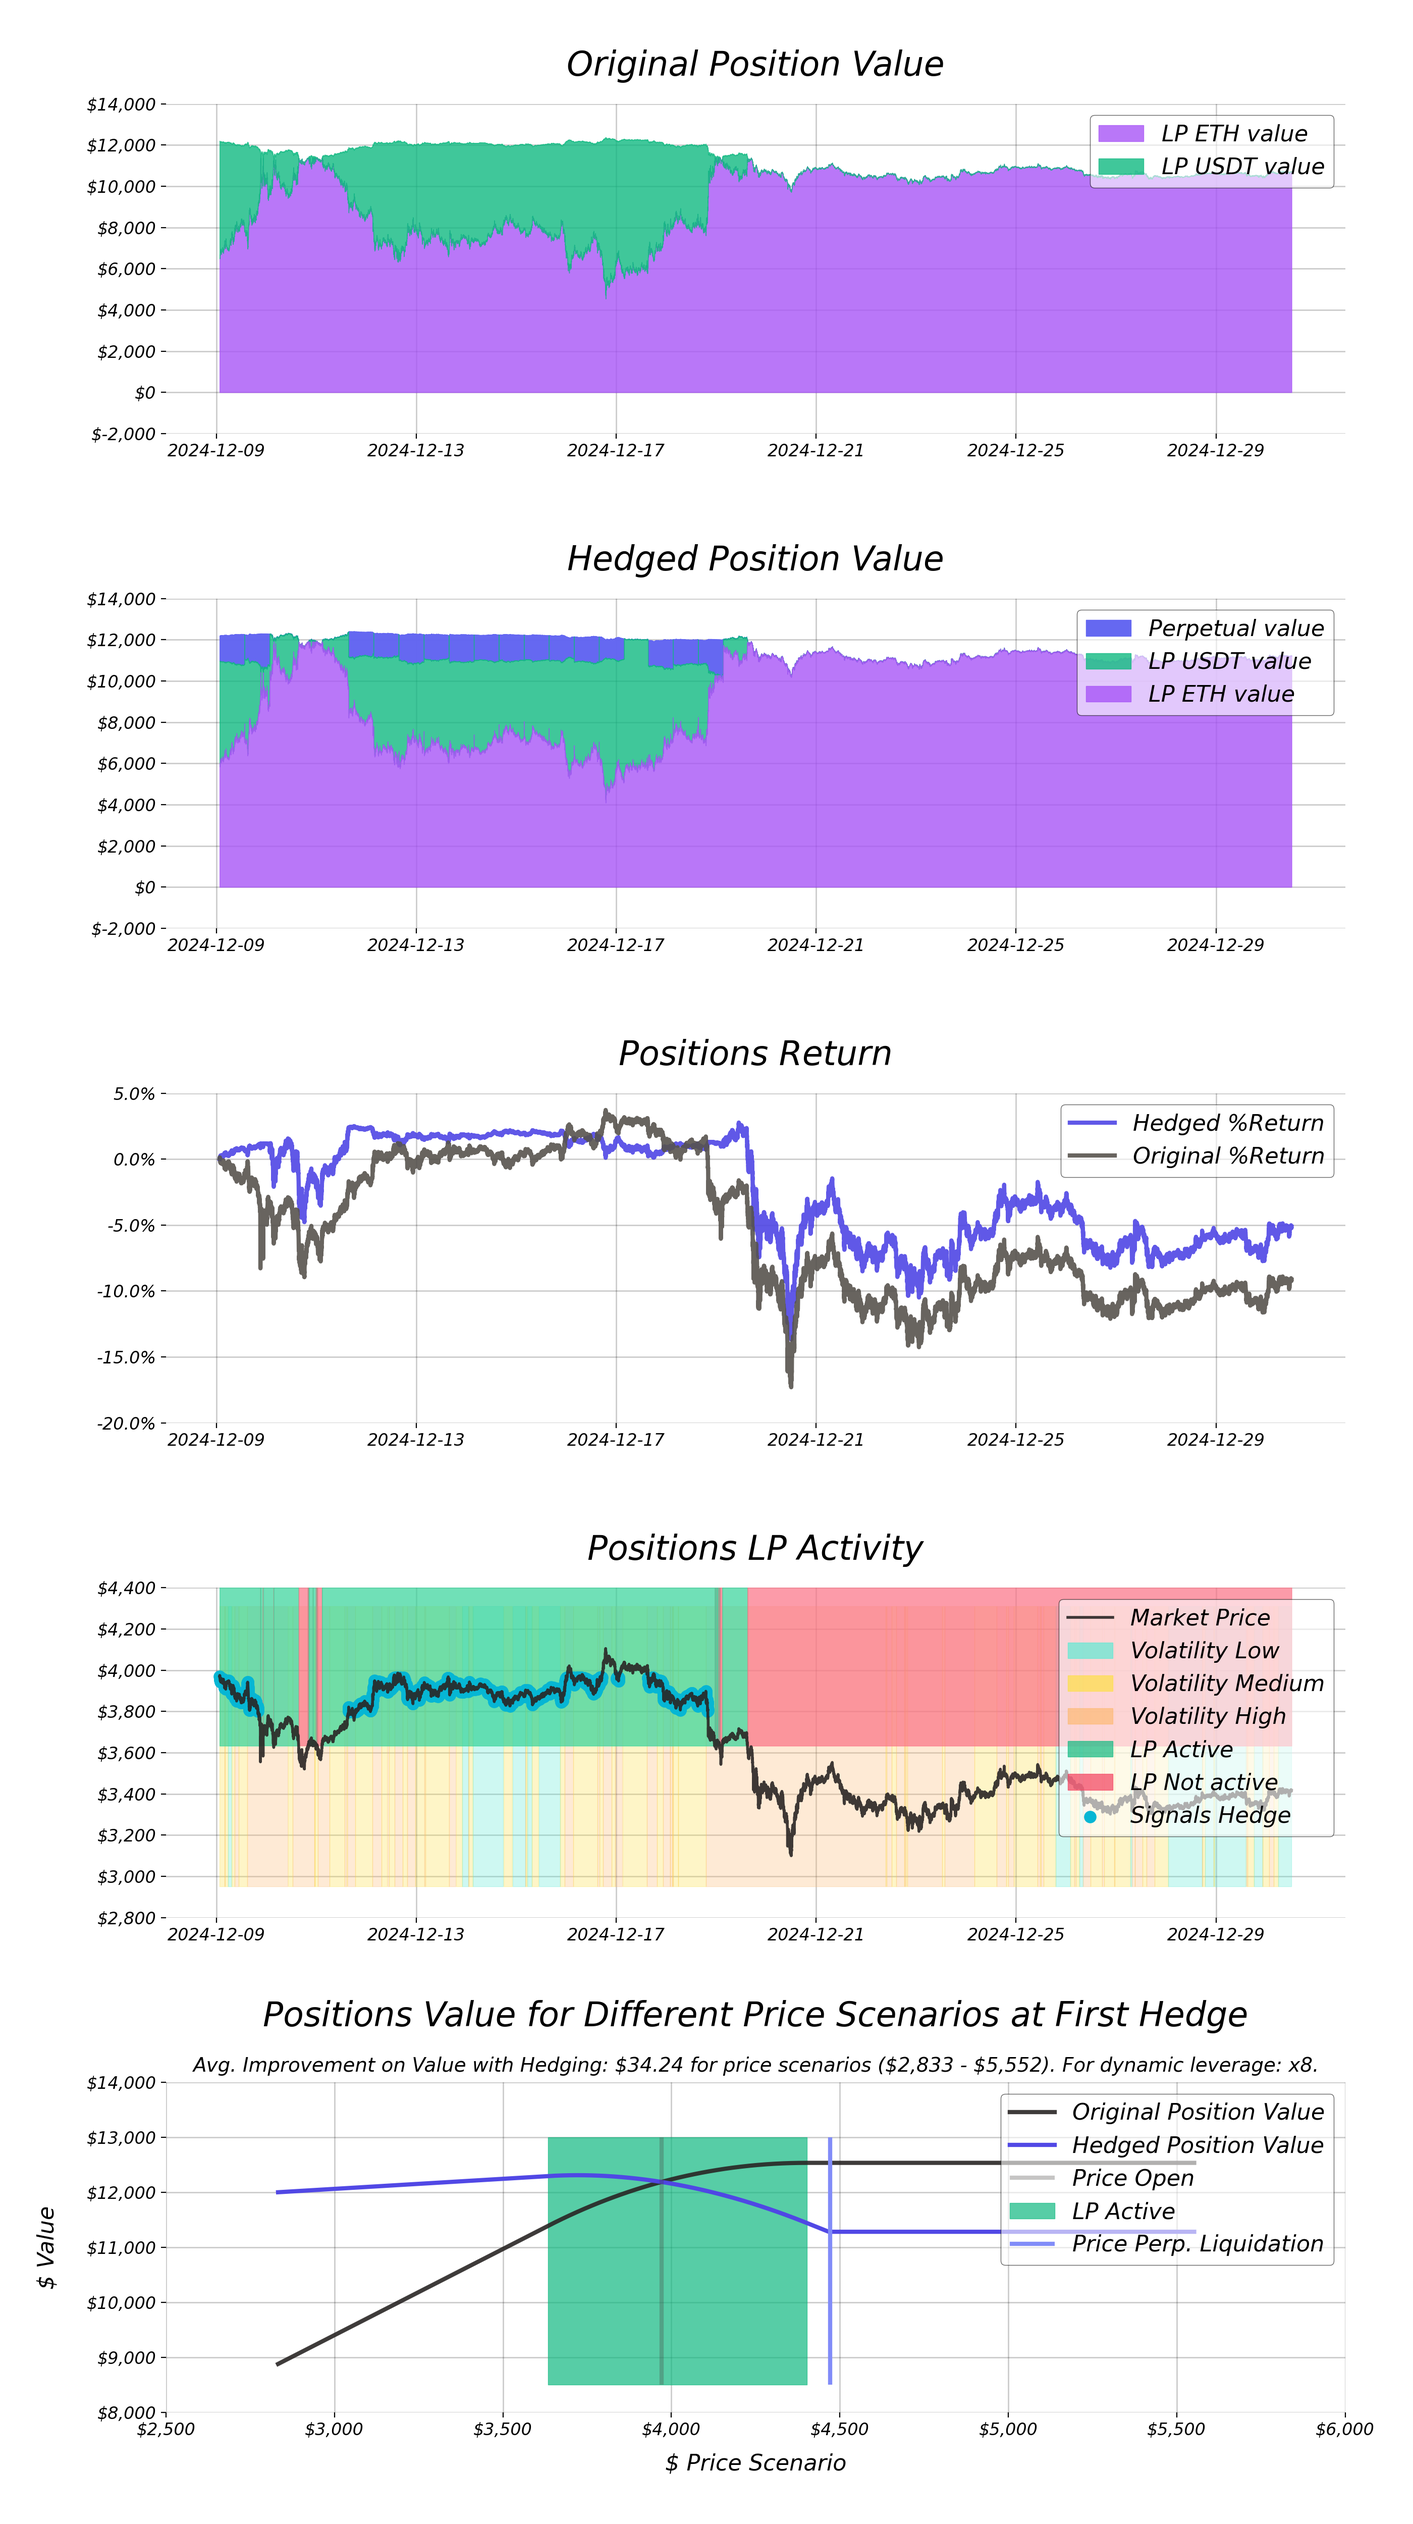
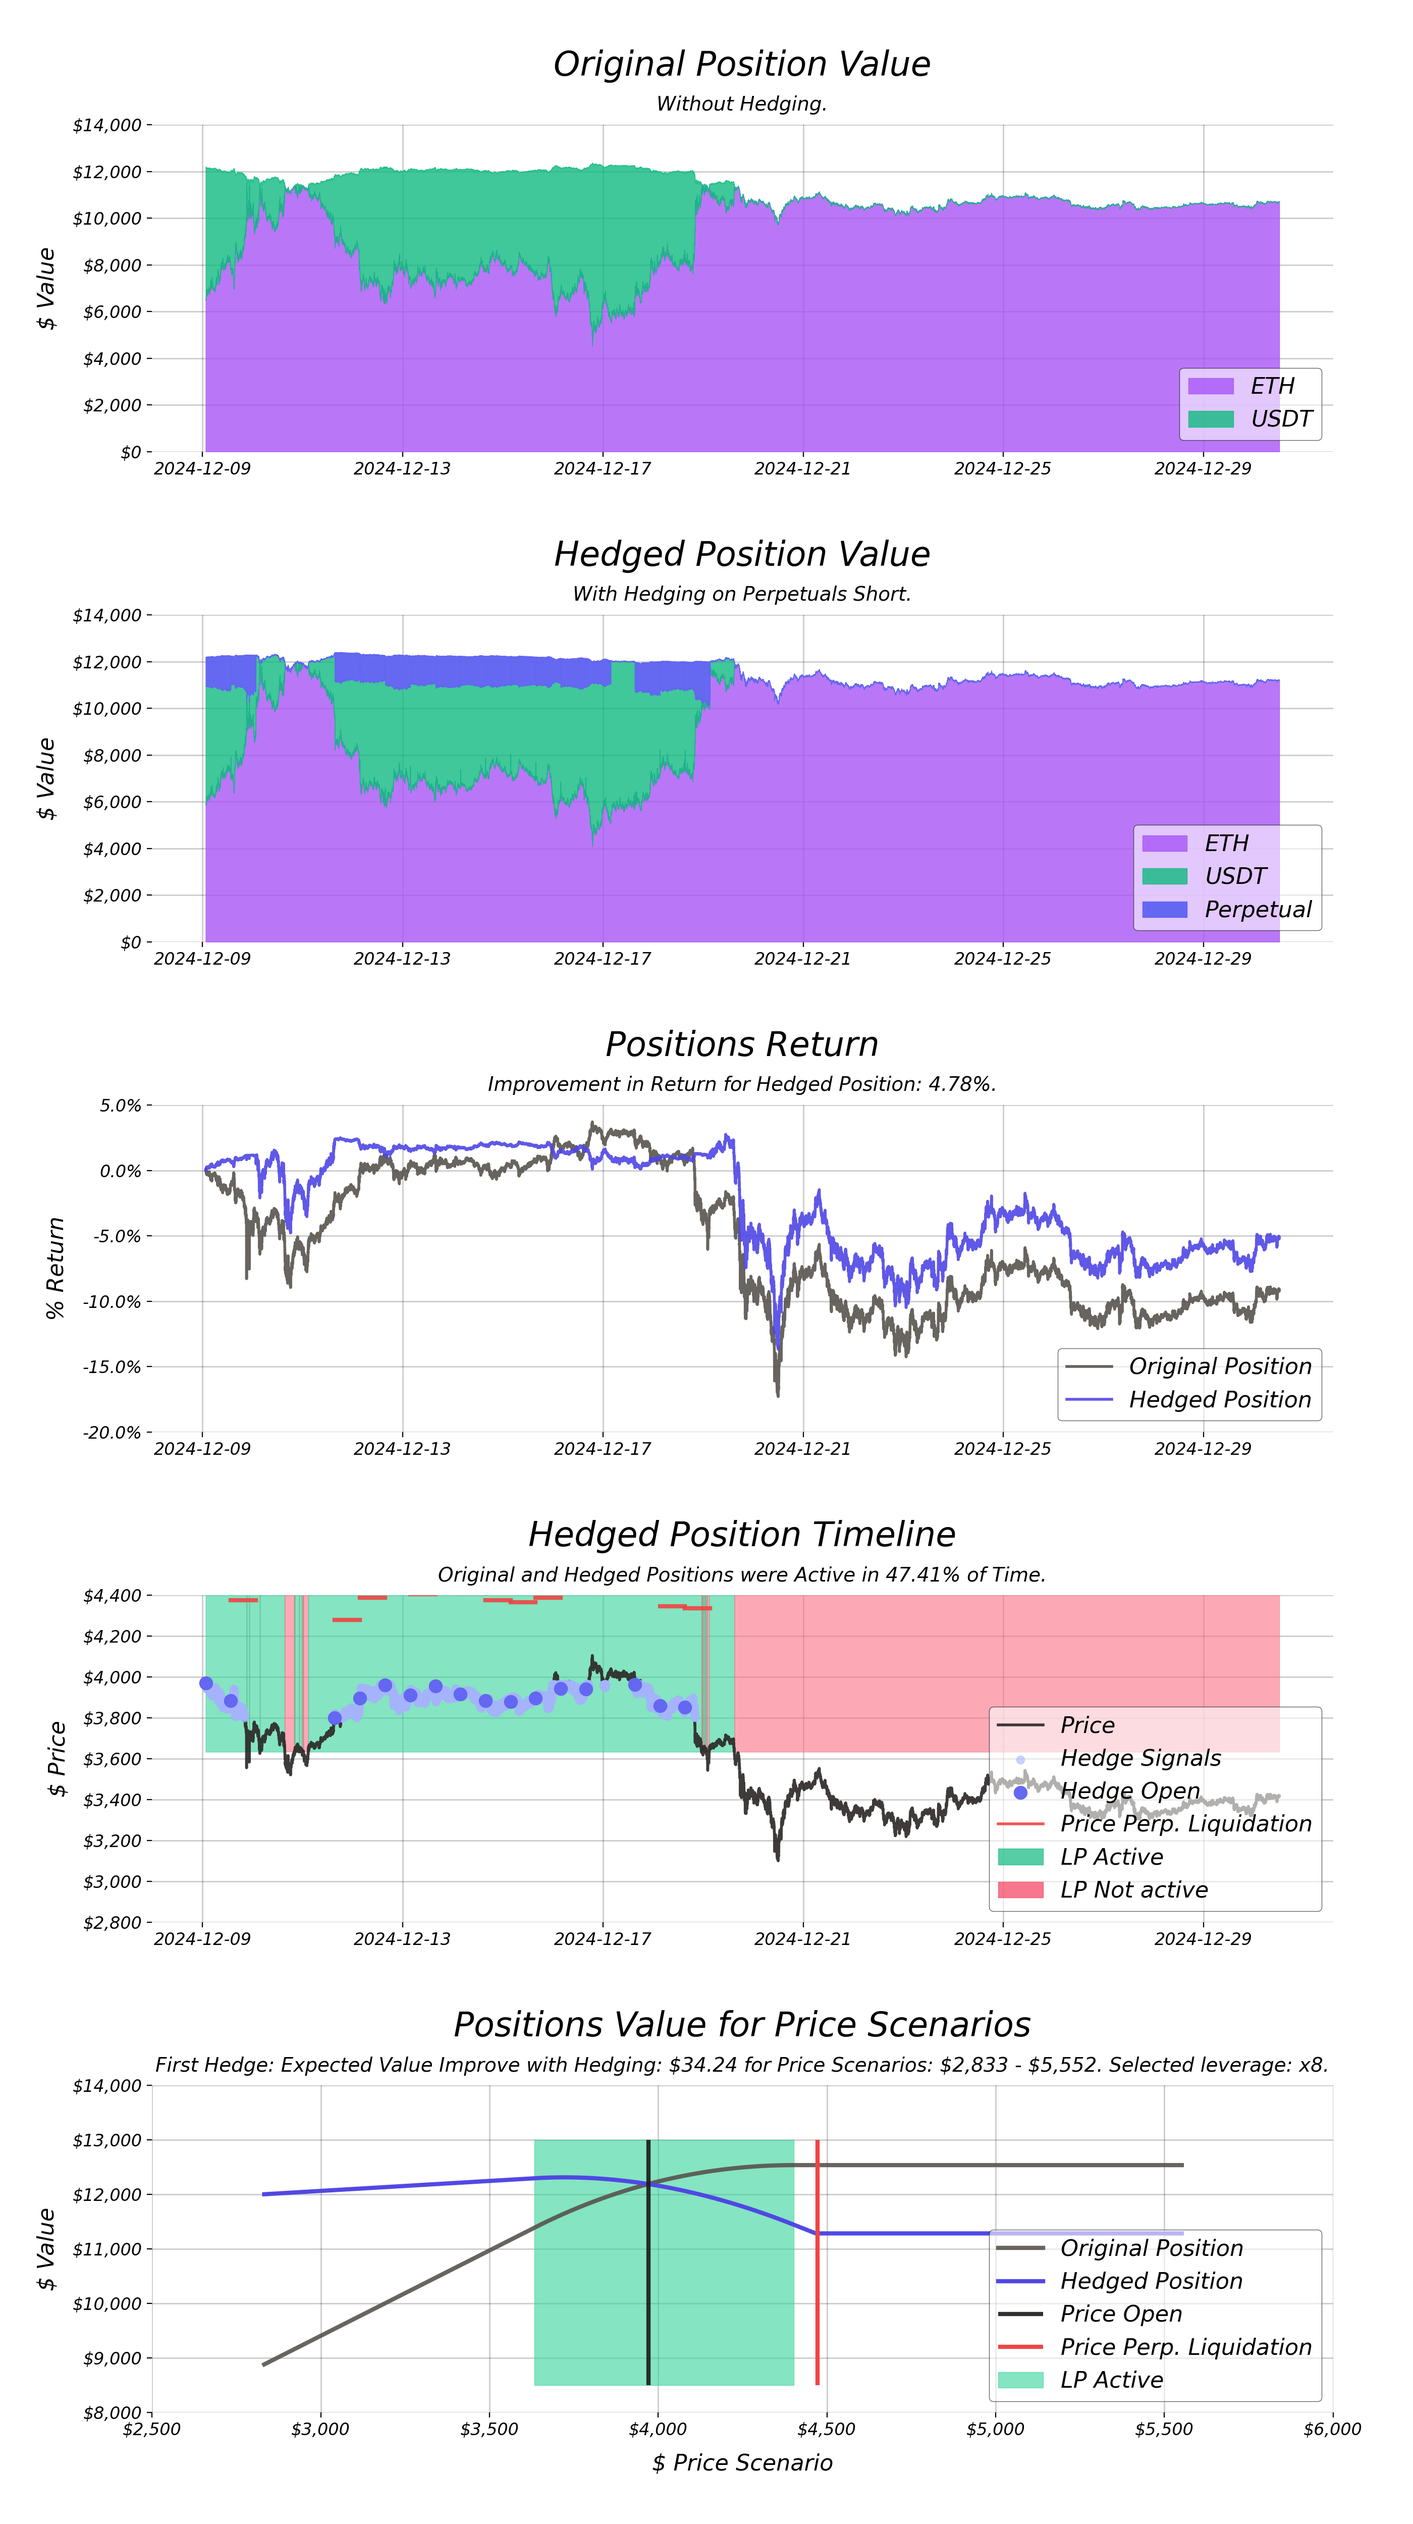
new plots

diff --git a/hook-backtest/hook-position-managment.py b/hook-backtest/hook-position-managment.py
@@ -300,69 +300,104 @@ def _plot_pos_hedge(*arg):
     imprv = '${:,.2f}'.format(hedge_value['lim_imprv'])
     p_fr = '${:,.0f}'.format(p_values.min())
     p_to = '${:,.0f}'.format(p_values.max())
-    sub = f"Avg. Improvement on Value with Hedging: {imprv} for price scenarios ({p_fr} - {p_to}). For dynamic leverage: x{pos_gmx['l']}."
+    sub = f"First Hedge: Expected Value Improve with Hedging: {imprv} for Price Scenarios: {p_fr} - {p_to}. Selected leverage: x{pos_gmx['l']}."
+    a_share = (100*df_org['active'].sum()/df_org.shape[0]).round(2)
+    r_impr = '{:,.2f}%'.format(100*((df_uni['v'].iloc[-1]+df_gmx['v'].iloc[-1])/df_org['v'].iloc[-1]-1))
+    sub_timeline = f"Original and Hedged Positions were Active in {a_share}% of Time."
+    sub_return = f"Improvement in Return for Hedged Position: {r_impr}."
 
     nr = 5
     _style_white()
     fig, axes = plt.subplots(nrows=nr, figsize=(14, 5*nr))
     
     ax = axes[0]
-    ax.set_title(f"Original Position Value", pad=20)
-    ax.fill_between(df_uni['t'], df_org['x_usd'], color=tailwind['purple-500'], alpha=0.8, label=f"LP ETH value")   
-    ax.fill_between(df_uni['t'], df_org['x_usd'], df_org['v'], df_uni['v'], color=tailwind['emerald-500'], alpha=0.8, label=f"LP USDT value")
+    ax.set_title(f"Original Position Value", pad=35)
+    ax.text(0.5, 1.06, "Without Hedging.", ha='center', va='center', fontsize=14, transform=ax.transAxes)
+    ax.set_ylabel(f"$ Value", labelpad=10)
+    ax.fill_between(df_uni['t'], df_org['x_usd'], color=tailwind['purple-500'], alpha=0.8, label=f"ETH")   
+    ax.fill_between(df_uni['t'], df_org['x_usd'], df_org['v'], df_uni['v'], color=tailwind['emerald-500'], alpha=0.8, label=f"USDT")
+    ax.set_ylim((0,max(ax.get_yticks())))
     ax.yaxis.set_major_formatter(mtick.FuncFormatter(lambda x, pos: '${:,.0f}'.format(x)))
-    
+
     ax = axes[1]
-    ax.set_title(f"Hedged Position Value", pad=20)
-    ax.fill_between(df_uni['t'], df_uni['v'], df_gmx['v']+df_uni['v'], color=tailwind['indigo-500'], alpha=0.99, label=f"Perpetual value")
-    ax.fill_between(df_uni['t'], df_uni['x_usd'], df_uni['v'], color=tailwind['emerald-500'], alpha=0.8, label=f"LP USDT value")
-    ax.fill_between(df_uni['t'], df_uni['x_usd'], color=tailwind['purple-500'], alpha=0.8, label=f"LP ETH value")   
+    ax.set_title(f"Hedged Position Value", pad=35)
+    ax.text(0.5, 1.06, "With Hedging on Perpetuals Short.", ha='center', va='center', fontsize=14, transform=ax.transAxes)
+    ax.set_ylabel(f"$ Value", labelpad=10)
+    ax.fill_between(df_uni['t'], df_uni['x_usd'], color=tailwind['purple-500'], alpha=0.8, label=f"ETH")   
+    ax.fill_between(df_uni['t'], df_uni['x_usd'], df_uni['v'], color=tailwind['emerald-500'], alpha=0.8, label=f"USDT")
+    ax.fill_between(df_uni['t'], df_uni['v'], df_gmx['v']+df_uni['v'], color=tailwind['indigo-500'], alpha=0.99, label=f"Perpetual")
+    ax.set_ylim((0,max(ax.get_yticks())))
     ax.yaxis.set_major_formatter(mtick.FuncFormatter(lambda x, pos: '${:,.0f}'.format(x)))
 
     ax = axes[2]
-    ax.set_title(f"Positions Return", pad=20)
-    ax.plot(df_p['_time'], df_p['ret_hedge'], tailwind['indigo-600'], alpha=0.9, label="Hedged %Return")
-    ax.plot(df_p['_time'], df_p['ret_org'], tailwind['stone-600'], alpha=0.9, label="Original %Return")  
+    ax.set_title(f"Positions Return", pad=35)
+    ax.text(0.5, 1.06, sub_return, ha='center', va='center', fontsize=14, transform=ax.transAxes)
+    ax.set_ylabel(f"% Return", labelpad=10)
+    ax.plot(df_p['_time'], df_p['ret_org'], tailwind['stone-600'], alpha=0.9, linewidth=2, label="Original Position")  
+    #ax.plot(df_p['_time'], df_p['ret_org_f_cum'], tailwind['teal-600'], alpha=0.5, linewidth=2, label="Original Position Fees")  
+    #ax.plot(df_p['_time'], df_p['ret_org_imp_loss'], tailwind['pink-800'], alpha=0.9, linewidth=2, label="Original Position Imp. Loss")
+    ax.plot(df_p['_time'], df_p['ret_hedge'], tailwind['indigo-600'], alpha=0.9, linewidth=2, label="Hedged Position")
+    #ax.plot(df_p['_time'], df_p['ret_hedge_f_cum'], tailwind['teal-600'], alpha=0.9, linewidth=2, label="Hedged Position Fees")
     ax.yaxis.set_major_formatter(mtick.FuncFormatter(lambda x, pos: '{:,.1f}%'.format(x*100)))
     
     ax = axes[3]
-    ax.set_title(f"Positions LP Activity", pad=20)
+    ax.set_title(f"Hedged Position Timeline", pad=35)
+    ax.text(0.5, 1.06, sub_timeline, ha='center', va='center', fontsize=14, transform=ax.transAxes)
+    ax.set_ylabel(f"$ Price", labelpad=10)
     x_min, x_max = df_p['_time'].min(), df_p['_time'].max()
     y_min, y_max = df_p['open'].min()/1.05, df_p['open'].max()*1.05
-    ax.plot(df_p['_time'], df_p['open'], tailwind['stone-800'], alpha=0.9, linewidth=2, label="Market Price")
+    ax.plot(df_p['_time'], df_p['open'], tailwind['stone-800'], alpha=0.9, linewidth=2, label="Price")
     ax.set_ylim((y_min, y_max))
-    for state_id in df_p['state_id'].unique():
-        if state_id.split('_')[0]=="lowvol": state_color = tailwind['teal-300']
-        elif state_id.split('_')[0]=="midvol": state_color = tailwind['yellow-300']
-        else: state_color = tailwind['orange-300']
-        df_p_s = df_p[df_p['state_id']==state_id]
-        state_time = [df_p_s['_time'].iloc[0],  df_p_s['_time'].iloc[-1]]
-        ax.fill_between(state_time, y_min, y_max, color=state_color, alpha=0.3)
+# =============================================================================
+#     for state_id in df_p['state_id'].unique():
+#         if state_id.split('_')[0]=="lowvol": state_color = tailwind['teal-300']
+#         elif state_id.split('_')[0]=="midvol": state_color = tailwind['yellow-300']
+#         else: state_color = tailwind['orange-300']
+#         df_p_s = df_p[df_p['state_id']==state_id]
+#         state_time = [df_p_s['_time'].iloc[0],  df_p_s['_time'].iloc[-1]]
+#         ax.fill_between(state_time, y_min, y_max, color=state_color, alpha=0.3)
+# =============================================================================
+    ax.scatter(df_lp[df_lp['signal_hedge']]['t'], df_lp[df_lp['signal_hedge']]['p'], 
+               color=tailwind['indigo-300'], s=33, label="Hedge Signals", alpha=.6, zorder=4)
+    ax.scatter(df_gmx[df_gmx['t'] == df_gmx['t_opn']]['t'], df_gmx[df_gmx['t'] == df_gmx['t_opn']]['p'], 
+               color=tailwind['indigo-500'], s=88, label="Hedge Open", alpha=.99, zorder=4)
+    for t_opn in df_gmx['t_opn'].unique():
+        if t_opn==t_opn: 
+            df_gmx_id = df_gmx[df_gmx['t_opn']==t_opn]
+            ax.plot(df_gmx_id['t'], df_gmx_id['p_liq'], alpha=0.9, linewidth=3, color=tailwind['red-500'])
+    ax.plot([x_min], [y_min], alpha=0.9, linewidth=2, color=tailwind['red-500'], label="Price Perp. Liquidation")
     for a in df_lp['active_id'].unique():
         df_lp_a = df_lp[df_lp['active_id']==a]
         pos_active = df_lp_a['active'].iloc[0]
         a_color = tailwind['emerald-400'] if pos_active else tailwind['rose-400']
-        ax.fill_between(df_lp_a['t'],  df_lp_a['p_a'],  df_lp_a['p_b'], color=a_color, alpha=0.7)
-    ax.fill_between([x_min],  y_min, y_min, color=tailwind['teal-300'], alpha=0.7, label="Volatility Low")    
-    ax.fill_between([x_min],  y_min, y_min, color=tailwind['yellow-300'], alpha=0.7, label="Volatility Medium") 
-    ax.fill_between([x_min],  y_min, y_min, color=tailwind['orange-300'], alpha=0.7, label="Volatility High") 
+        ax.fill_between(df_lp_a['t'],  df_lp_a['p_a'],  df_lp_a['p_b'], color=a_color, alpha=0.6)
+# =============================================================================
+#     ax.fill_between([x_min],  y_min, y_min, color=tailwind['teal-300'], alpha=0.7, label="Volatility Low")    
+#     ax.fill_between([x_min],  y_min, y_min, color=tailwind['yellow-300'], alpha=0.7, label="Volatility Medium") 
+#     ax.fill_between([x_min],  y_min, y_min, color=tailwind['orange-300'], alpha=0.7, label="Volatility High") 
+# =============================================================================
+
     ax.fill_between([x_min],  y_min, y_min, color=tailwind['emerald-500'], alpha=0.7, label="LP Active")    
     ax.fill_between([x_min],  y_min, y_min, color=tailwind['rose-500'], alpha=0.7, label="LP Not active")    
-    ax.scatter(df_lp[df_lp['signal_hedge']]['t'], df_lp[df_lp['signal_hedge']]['p'], 
-               color=tailwind['cyan-500'], s=70, label="Signals Hedge")
     ax.yaxis.set_major_formatter(mtick.FuncFormatter(lambda x, pos: '${:,.0f}'.format(x)))
 
     ax = axes[4]
-    ax.set_title(f"Positions Value for Different Price Scenarios at First Hedge", pad=40)
-    ax.text(0.5, 1.05, sub, ha='center', va='center', fontsize=14, transform=ax.transAxes)
-    ax.set_ylabel(f"$ Value", labelpad=20)
+    ax.set_title(f"Positions Value for Price Scenarios", pad=35)
+    ax.text(0.5, 1.06, sub, ha='center', va='center', fontsize=14, transform=ax.transAxes)
+    ax.set_ylabel(f"$ Value", labelpad=10)
     ax.set_xlabel(f"$ Price Scenario", labelpad=10)
-    ax.plot(p_values, df_org_v['v'], color=tailwind['stone-800'], alpha=0.9, linewidth=3, label=f"Original Position Value")
-    ax.plot(p_values, df_uni_v['v'] + df_gmx_v['v'], color=tailwind['indigo-600'], alpha=0.99, linewidth=3, label=f"Hedged Position Value")
+    ax.plot(p_values, df_org_v['v'], color=tailwind['stone-600'], alpha=0.9, linewidth=3, label=f"Original Position")
+    ax.plot(p_values, df_uni_v['v'] + df_gmx_v['v'], color=tailwind['indigo-600'], alpha=0.99, linewidth=3, label=f"Hedged Position")
     y_min, y_max = max(.0, ax.get_yticks().min()), ax.get_yticks().max()
-    ax.vlines(pos_gmx['p_opn'], y_min, y_max, color=tailwind['stone-700'], alpha=.3, label="Price Open")
-    ax.fill_between([p_a,p_b], [y_min, y_min], [y_max, y_max], color=tailwind['emerald-500'], alpha=0.7, label="LP Active") 
-    ax.vlines(pos_gmx['p_liq'], y_min, y_max, color=tailwind['indigo-400'], label="Price Perp. Liquidation")
+    ax.vlines(pos_gmx['p_opn'], y_min, y_max, color=tailwind['stone-900'], alpha=.9, label="Price Open")
+    ax.vlines(pos_gmx['p_liq'], y_min, y_max, color=tailwind['red-500'], label="Price Perp. Liquidation")
+    ax.fill_between([p_a,p_b], [y_min, y_min], [y_max, y_max], color=tailwind['emerald-400'], alpha=0.6, label="LP Active") 
+# =============================================================================
+#     ax.fill_between([p_values.min(),p_a], [y_min, y_min], [y_max, y_max], color=tailwind['rose-400'], alpha=0.4, label="LP Not Active") 
+#     ax.fill_between([p_b,p_values.max()], [y_min, y_min], [y_max, y_max], color=tailwind['rose-400'], alpha=0.4) 
+#     
+# =============================================================================
+    ax.set_xlim((p_values.min()),p_values.max())
     ax.xaxis.set_major_formatter(mtick.FuncFormatter(lambda x, pos: '${:,.0f}'.format(x)))
     ax.yaxis.set_major_formatter(mtick.FuncFormatter(lambda x, pos: '${:,.0f}'.format(x)))
 
@@ -373,7 +408,7 @@ def _plot_pos_hedge(*arg):
         ax.set_xticklabels(ax.get_xticklabels(), rotation=0)
         ax.grid(True, linestyle='-', linewidth=1, alpha=0.2)
         for spine in ax.spines.values(): spine.set_visible(False)
-        legend = ax.legend(loc='upper right')
+        legend = ax.legend(loc='lower right')
         legend.get_frame().set_facecolor('white')  # Sets the background color to white
         legend.get_frame().set_edgecolor('black')  # Optional: Adds a border to the legend
         legend.get_frame().set_alpha(.6)  # Ensures no transparency (fully opaque)
@@ -381,7 +416,6 @@ def _plot_pos_hedge(*arg):
     fig.subplots_adjust(hspace=.5)
     fig.savefig(os.path.join(folder, f'Position Hedge {position_id}'), dpi=200)
     fig.clf()
-
 
 # =============================================================================
 # Simulate Hedge
@@ -478,7 +512,7 @@ for i, position_id in enumerate(pool_ids[:14]):
     df_gmx = pd.DataFrame(data_gmx)
     df_gmx['v'] = df_gmx['v'].fillna(.0)
     df_uni = pd.DataFrame(data_uni)
-    
+
     # Return
     fee_prop = df_uni[df_uni['active']]['v'].sum()/df_org[df_org['active']]['v'].sum()
     f_uni = fees_usd*fee_prop
@@ -486,8 +520,12 @@ for i, position_id in enumerate(pool_ids[:14]):
     inv_usd = pos_org['inv_usd']
     df_uni = _f_cum(df_uni, f_uni, inv_usd)
     df_org = _f_cum(df_org, f_org, inv_usd)
+    
     df_p['ret_org'] = (df_org['v']+df_org['f_cum'])/inv_usd-1
+    df_p['ret_org_f_cum'] = (df_org['f_cum'])/inv_usd
+    df_p['ret_org_imp_loss'] = (df_org['v'])/inv_usd-1
     df_p['ret_hedge'] = (df_uni['v']+df_uni['f_cum']+df_gmx['v'])/inv_usd-1
+    df_p['ret_hedge_f_cum'] = (df_org['f_cum'])/inv_usd
     
     _plot_pos_hedge()
 
@@ -501,13 +539,7 @@ for i, position_id in enumerate(pool_ids[:14]):
 #     (df_gmx['v']+df_uni['v'])/df_org['v'].iloc[0]-1
 #     (df_org['v']/df_org['v']).iloc[0]-1
 # =============================================================================
-
-
-
-
-
-
-
+# if (df_uni['v'].iloc[-1]+df_gmx['v'].iloc[-1])/df_org['v'].iloc[-1]-1>0:
 # =============================================================================
 # fig, ax = plt.subplots(figsize=(16, 7))
 # ax.set_title(f"Hedged LP Return", pad=20)
